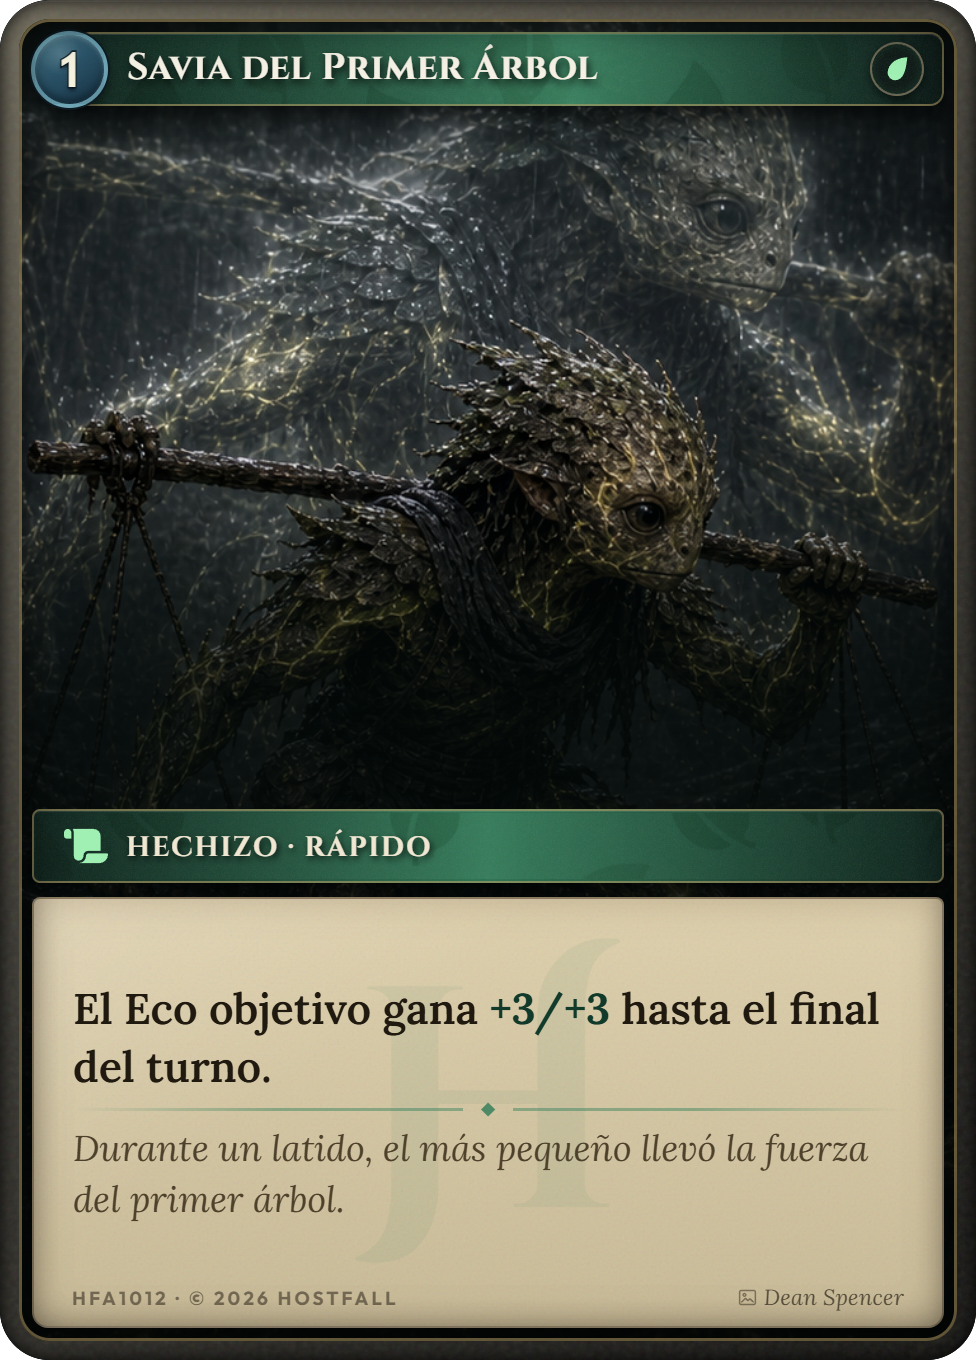
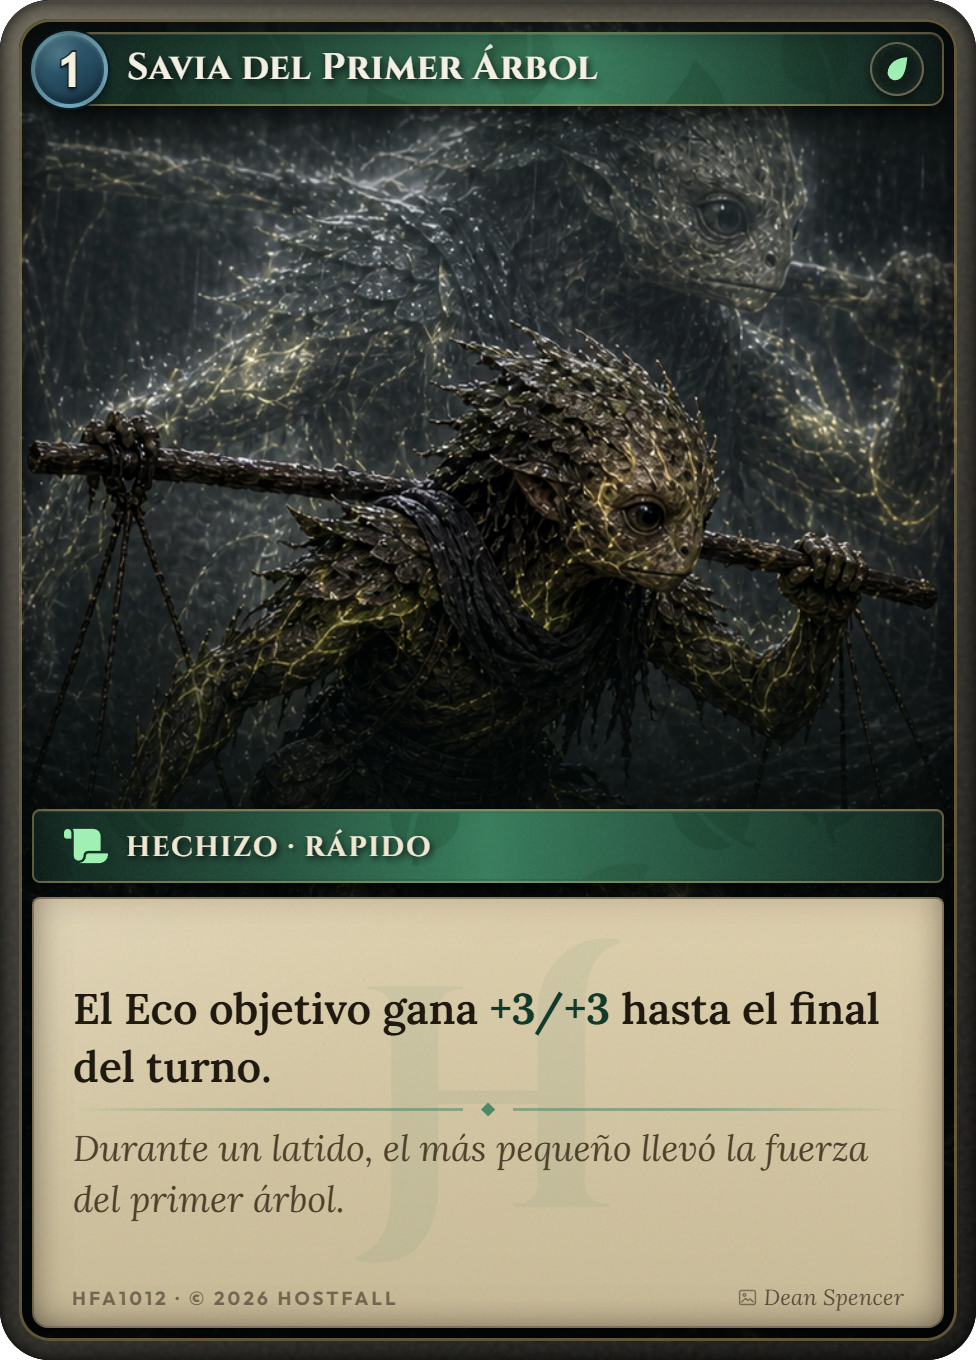
stable

diff --git a/dev/tools/Decks/deck-card-studio.css b/dev/tools/Decks/deck-card-studio.css
@@ -627,7 +627,7 @@ body {
 .tcg-card--common .tcg-card-veil {
     background:
         linear-gradient(180deg, rgba(4, 12, 10, 0.86) 0%, rgba(4, 12, 10, 0.28) 12%, transparent 22%),
-        linear-gradient(0deg, rgba(4, 10, 9, 0.9) 0%, rgba(4, 10, 9, 0.82) 48%, rgba(4, 10, 9, 0.46) 58%, rgba(4, 10, 9, 0.12) 64%, transparent 70%),
+        linear-gradient(0deg, rgba(4, 10, 9, 0.9) 0%, rgba(4, 10, 9, 0.82) 28%, rgba(4, 10, 9, 0.46) 38%, rgba(4, 10, 9, 0.12) 44%, transparent 50%),
         radial-gradient(ellipse at 50% 40%, transparent 52%, rgba(0, 0, 0, 0.42));
 }
 

diff --git a/dev/tools/Decks/last_rain/deck-data.generated.js b/dev/tools/Decks/last_rain/deck-data.generated.js
@@ -4,7 +4,7 @@ window.HostfallDeckData = [
     "id": "first_dew_gatherers",
     "collectorId": "HFA1001",
     "artist": "Dean Spencer",
-    "art_crop": "../../../../public/cards/last_rain/art/first_dew_gatherers.png",
+    "art_crop": "../../../../public/cards/last_rain/art/first_dew_gatherers.jpg",
     "nombre": "Recolectores del Primer Rocío",
     "tipo": "Eco — Recolector",
     "costo": 1,
